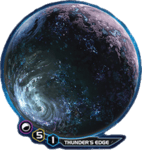
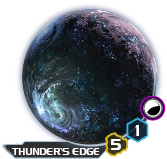
Updates (#4312)
- Thunder's Edge token
- TF Genomes and Paradigms emoji

diff --git a/src/main/java/ti4/service/emoji/LeaderEmojis.java b/src/main/java/ti4/service/emoji/LeaderEmojis.java
@@ -270,8 +270,27 @@ public enum LeaderEmojis implements TI4Emoji {
         }
 
         return switch (leader.toLowerCase()) {
+            // Codex Updates
             case "xxchahero-te" -> XxchaHero;
             case "naaluagent-te" -> NaaluAgent;
+
+            // TF Genomes
+            case "experimentalagent" -> JolNarAgent;
+            case "hyperagent" -> MentakAgent;
+            case "researchagent" -> DeepwroughtAgent;
+            case "valiantagent" -> BastionAgent;
+
+            // TF Paradigms
+            case "brilliancehero" -> JolNarHero;
+            case "devourhero" -> NekroHero;
+            case "eternityhero" -> ObsidianHero;
+            case "eventhero" -> CabalHero;
+            case "forgehero" -> NaazHero;
+            case "lawshero" -> DeepwroughtHero;
+            case "poisonhero" -> NaaluHero;
+            case "voicehero" -> XxchaHero;
+            case "witchinghero" -> KeleresHeroOdlynn;
+
             default -> TI4Emoji.getRandomGoodDog(leader.toLowerCase());
         };
     }

diff --git a/src/main/java/ti4/image/TileGenerator.java b/src/main/java/ti4/image/TileGenerator.java
@@ -1708,6 +1708,7 @@ public class TileGenerator {
             String tokenPath =
                     switch (StringUtils.defaultString(planetHolder.getContrastColor())) {
                         case "orange" -> ResourceHelper.getInstance().getTokenFile("token_planetaryShield_orange.png");
+                        case "test" -> ResourceHelper.getInstance().getTokenFile("token_planetaryShield_test.png");
                         default -> ResourceHelper.getInstance().getTokenFile("token_planetaryShield.png");
                     };
             float scale = planetHolder.getRadius() / 58.0f;
